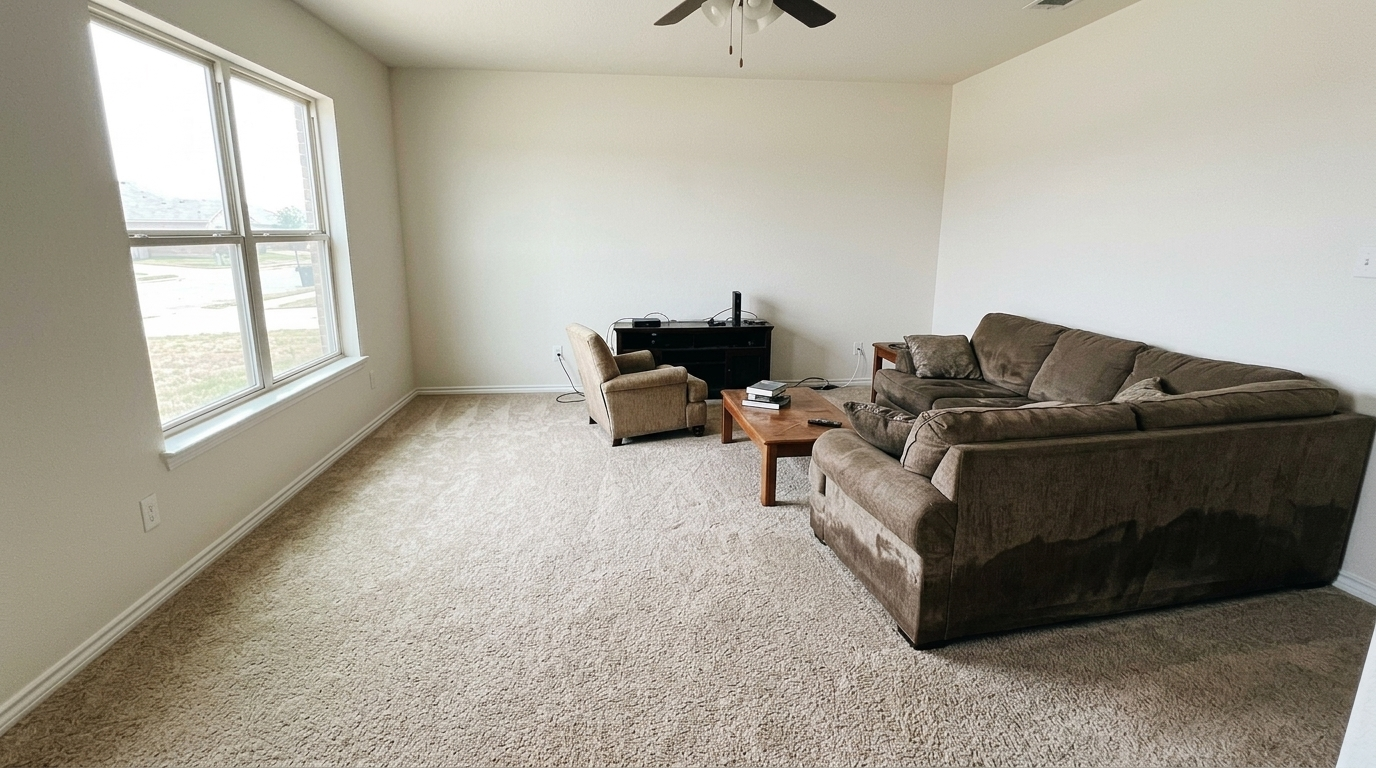
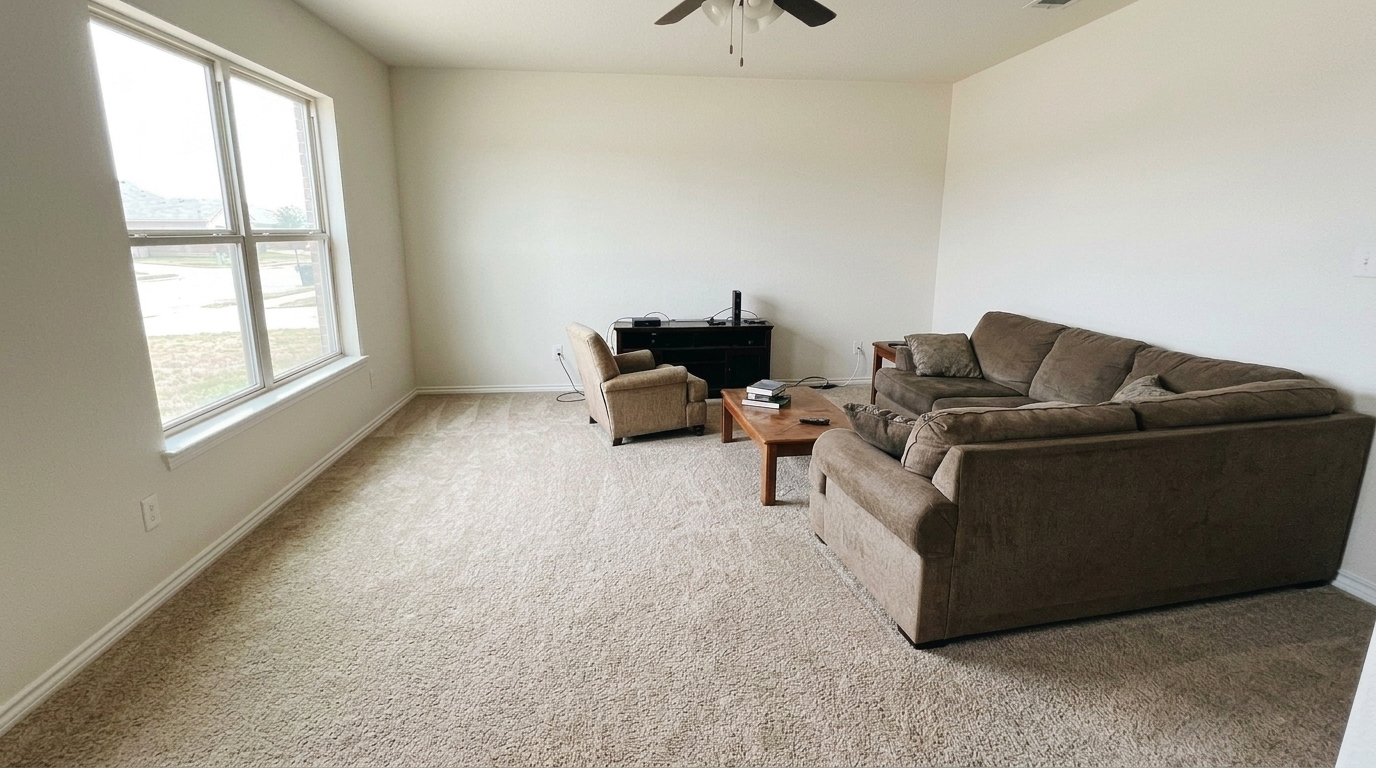
ACS: dry couch water-after + same-framing carpet pair (real photo = after); parity auto-ripple (plan+add-pages, stubs only) + site-area-gap watchdog

diff --git a/scripts/gbp_parity.py b/scripts/gbp_parity.py
@@ -43,6 +43,7 @@ import json
 import os
 import math
 import re
+import subprocess
 import sys
 from datetime import datetime, timezone
 from pathlib import Path
@@ -500,6 +501,7 @@ def main() -> int:
     inv = {s: c for c, s in slug_map().items()}
     slugs = [a.slug] if a.slug else sorted(inv)
     ledger: dict = {}
+    gap_now: dict = {}
     active = _active_cids()
 
     for slug in slugs:
@@ -556,11 +558,57 @@ def main() -> int:
                         {"city": c["city"], "state": c["state"],
                          "slug": re.sub(r"[^a-z0-9]+", "-",
                                         f"{c['city']} {c['state']}".lower()).strip("-")})
-                    print(f"    site: appended {c['city']} to plan-input "
-                          "(next build ripples the pages)")
+                    print(f"    site: appended {c['city']} to plan-input")
                 pi_p.write_text(json.dumps(pi, indent=2) + "\n")
+                # RIPPLE (Santino 2026-09-19, ACS: GBP carried 16 areas while
+                # the site served 7 — appending to plan-input alone builds
+                # nothing). Chain the two SAFE steps here: re-plan, then
+                # add-pages, which writes ONLY missing stubs (never full
+                # scaffold — that overwrites per-site customizations, the
+                # work.ts lesson). The nightly site-render sweep (3:07 PT)
+                # renders + deploys any rendered:false stub, closing the loop.
+                if (SITES := ROOT / "sites" / slug).is_dir():
+                    for step in (["plan_site.py", "generate", "--slug", slug],
+                                 ["build_site.py", "add-pages", "--slug", slug]):
+                        rr = subprocess.run(
+                            [sys.executable, str(ROOT / "scripts" / step[0]),
+                             *step[1:]], capture_output=True, text=True,
+                            timeout=600)
+                        tail = (rr.stdout or rr.stderr or "").strip().splitlines()
+                        print(f"    ripple {step[0]} {step[1]}: "
+                              f"{(tail[-1][:120] if tail else 'ok')}"
+                              + ("" if rr.returncode == 0 else
+                                 f" [EXIT {rr.returncode}]"))
+                else:
+                    print(f"    ripple skipped: sites/{slug} not built yet")
         ledger[cid] = entry
+        # Site-area-gap tracker: how long has this client's site lagged the
+        # GBP area set? pipeline_watchdog alerts when a gap sticks — the
+        # ripple above should drain it within a night or two.
+        if lp is not None:
+            gap_now[slug] = len(lp["site_missing"])
 
+    if not a.dry_run and gap_now:
+        # site-area-gap: per-slug {count, since}. `since` = first day the gap
+        # was seen and holds while the gap persists; cleared rows drop out.
+        # pipeline_watchdog alerts on any gap older than 3 days (ripple or
+        # render sweep broke). Read-merge-write so --slug runs don't wipe
+        # other clients' entries.
+        try:
+            prev = ((_sb("GET", "/rest/v1/ops_kv?k=eq.site-area-gap&select=v")
+                     or [{}])[0].get("v") or {})
+        except Exception:  # noqa: BLE001
+            prev = {}
+        today = datetime.now(timezone.utc).date().isoformat()
+        for s, n in gap_now.items():
+            if n <= 0:
+                prev.pop(s, None)
+            else:
+                prev[s] = {"count": n,
+                           "since": (prev.get(s) or {}).get("since") or today}
+        _sb("POST", "/rest/v1/ops_kv?on_conflict=k",
+            {"k": "site-area-gap", "v": prev},
+            prefer="resolution=merge-duplicates")
     if not a.dry_run and not a.slug:
         _sb("POST", "/rest/v1/ops_kv?on_conflict=k",
             {"k": "parity-ledger",

diff --git a/scripts/pipeline_watchdog.py b/scripts/pipeline_watchdog.py
@@ -115,6 +115,28 @@ def check_heartbeats() -> list[str]:
     return issues
 
 
+def check_site_area_gap() -> list[str]:
+    """Site area pages lagging the GBP area set (Santino 2026-09-19, ACS:
+    Google carried 16 areas while the site served 7 and nothing said so).
+    gbp_parity writes ops_kv 'site-area-gap' {slug: {count, since}} nightly
+    and its ripple (plan generate + add-pages + 3:07 render sweep) should
+    drain any gap within ~2 nights. A gap older than 3 days means the
+    ripple chain broke somewhere — alert with the client's name."""
+    issues = []
+    gaps = ((_sb("GET", "/rest/v1/ops_kv?k=eq.site-area-gap&select=v")
+             or [{}])[0].get("v") or {})
+    for slug, g in sorted(gaps.items()):
+        since = g.get("since")
+        if not since:
+            continue
+        age = (NOW.date() - datetime.fromisoformat(since).date()).days
+        if age > 3:
+            issues.append(
+                f"site-area gap: {slug} site is missing {g.get('count')} "
+                f"GBP area page(s), stuck {age}d — ripple/render sweep broke")
+    return issues
+
+
 def check_coverage() -> list[str]:
     issues = []
     inv = {s: c for c, s in slug_map().items()}
@@ -240,7 +262,8 @@ def main() -> int:
     ap = argparse.ArgumentParser()
     ap.add_argument("--dry-run", action="store_true")
     a = ap.parse_args()
-    issues = check_workflows() + check_heartbeats() + check_coverage()
+    issues = (check_workflows() + check_heartbeats() + check_coverage()
+              + check_site_area_gap())
     if not issues:
         print("pipeline watchdog: ALL SYSTEMS ALIVE")
     fresh: list[str] = []
